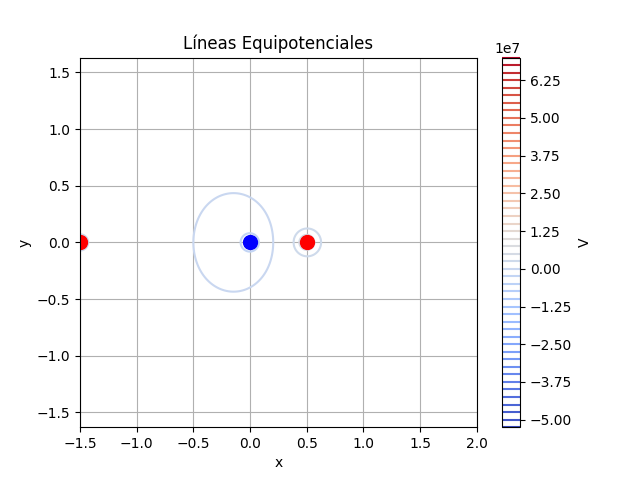
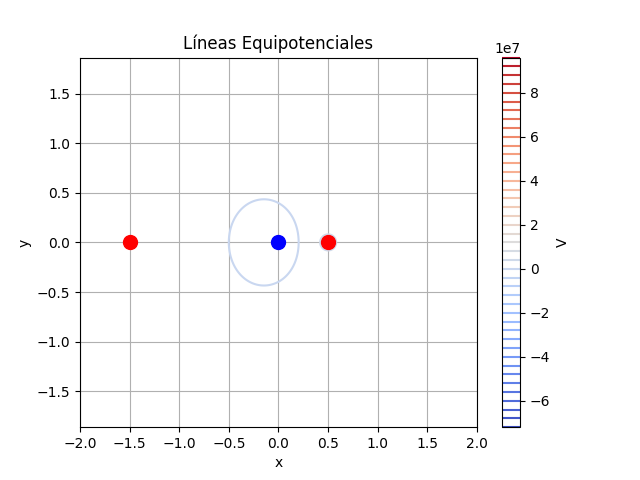
arreglo de lineas equipotenciales

diff --git a/plotting.py b/plotting.py
@@ -30,6 +30,8 @@ def plot_potential_contours(X, Y, V, charges=None, filename=None):
     plt.ylabel('y')
     plt.axis('equal')
     plt.colorbar(cp, label='V')  # <- Corrección aquí
+    plt.xlim(-2, 2)
+    plt.ylim(-1.5, 1.5)
     plt.grid(True)
 
     # Agregar cargas
